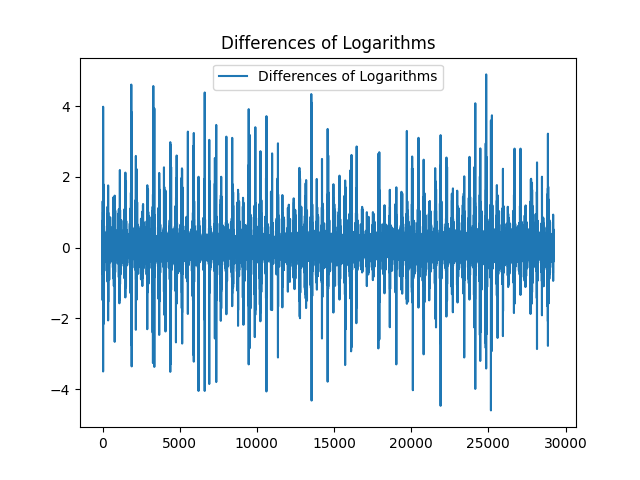
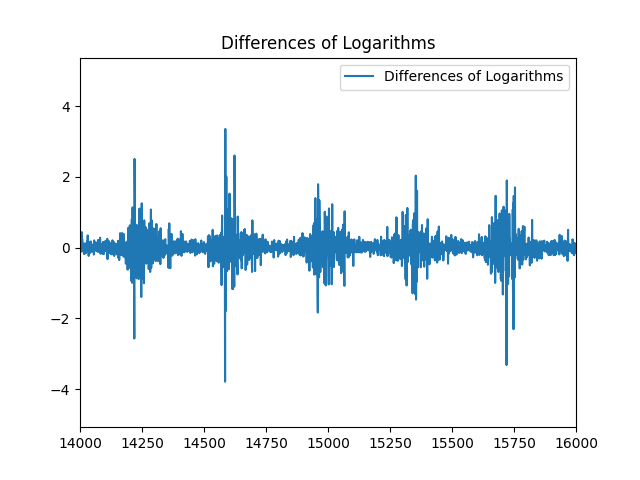
Read Time Series

Changed region(s): [[0.125, 0.125, 0.9062, 0.8438], [0.0938, 0.9062, 0.9375, 0.9375], [0.3438, 0.1562, 0.375, 0.1875]]

diff --git a/LinearAnalysisFunctions.py b/LinearAnalysisFunctions.py
@@ -77,3 +77,18 @@ def get_acf(x, lags=10, alpha=0.05, show=True):
         ax.legend()
     return acfv
 
+
+# Computes the periodic time series comprised of repetetive patterns of seasonal components given a time series and
+# the season (period).
+def seasonal_components(x, period):
+
+    n = x.shape[0]
+    sv = np.full(shape=(n,), fill_value=np.nan)
+    monv = np.full(shape=(period,), fill_value=np.nan)
+    for i in np.arange(period):
+        monv[i] = np.mean(x[i:n:period])
+    monv = monv - np.mean(monv)
+    for i in np.arange(period):
+        sv[i:n:period] = monv[i] * np.ones(shape=len(np.arange(i, n, period)))
+    return sv
+

diff --git a/DublinAirportAvgTempLinearAnalysis.py b/DublinAirportAvgTempLinearAnalysis.py
@@ -194,6 +194,12 @@ for i in range(7, len(varis1), 9):
 plt.plot(fd)
 title = f'Differences of Logarithms'
 plt.title(title, x=0.5, y=1.0)
+plt.xlim(14000, 16000)
 plt.legend(['Differences of Logarithms'])
 plt.savefig(f'{savepath}/{title}.png')
 plt.show()
+
+# Hypothesis for white noise.
+acvf = lf.get_acf(fd)
+plt.show()
+
